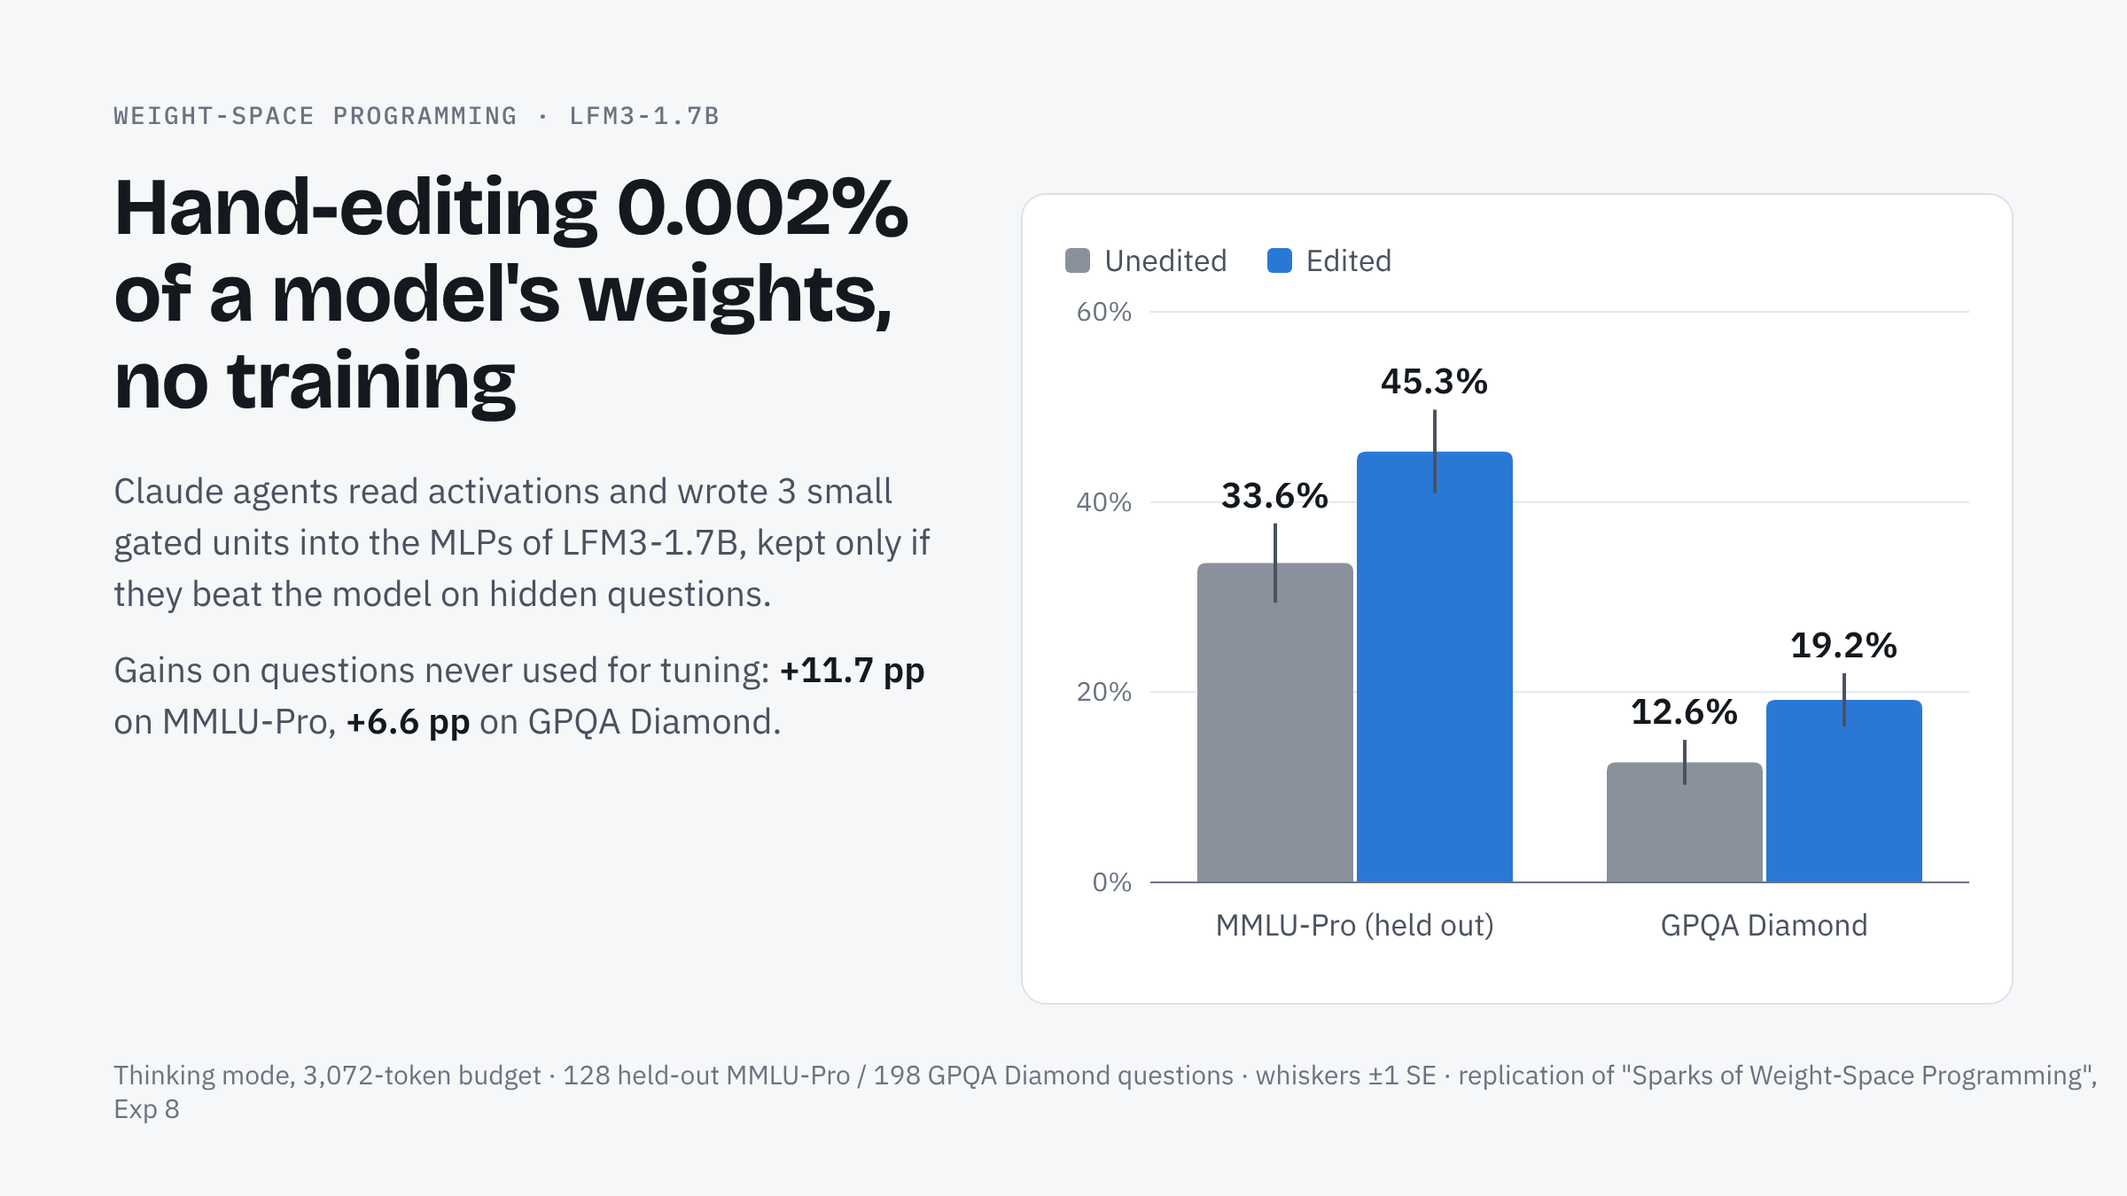
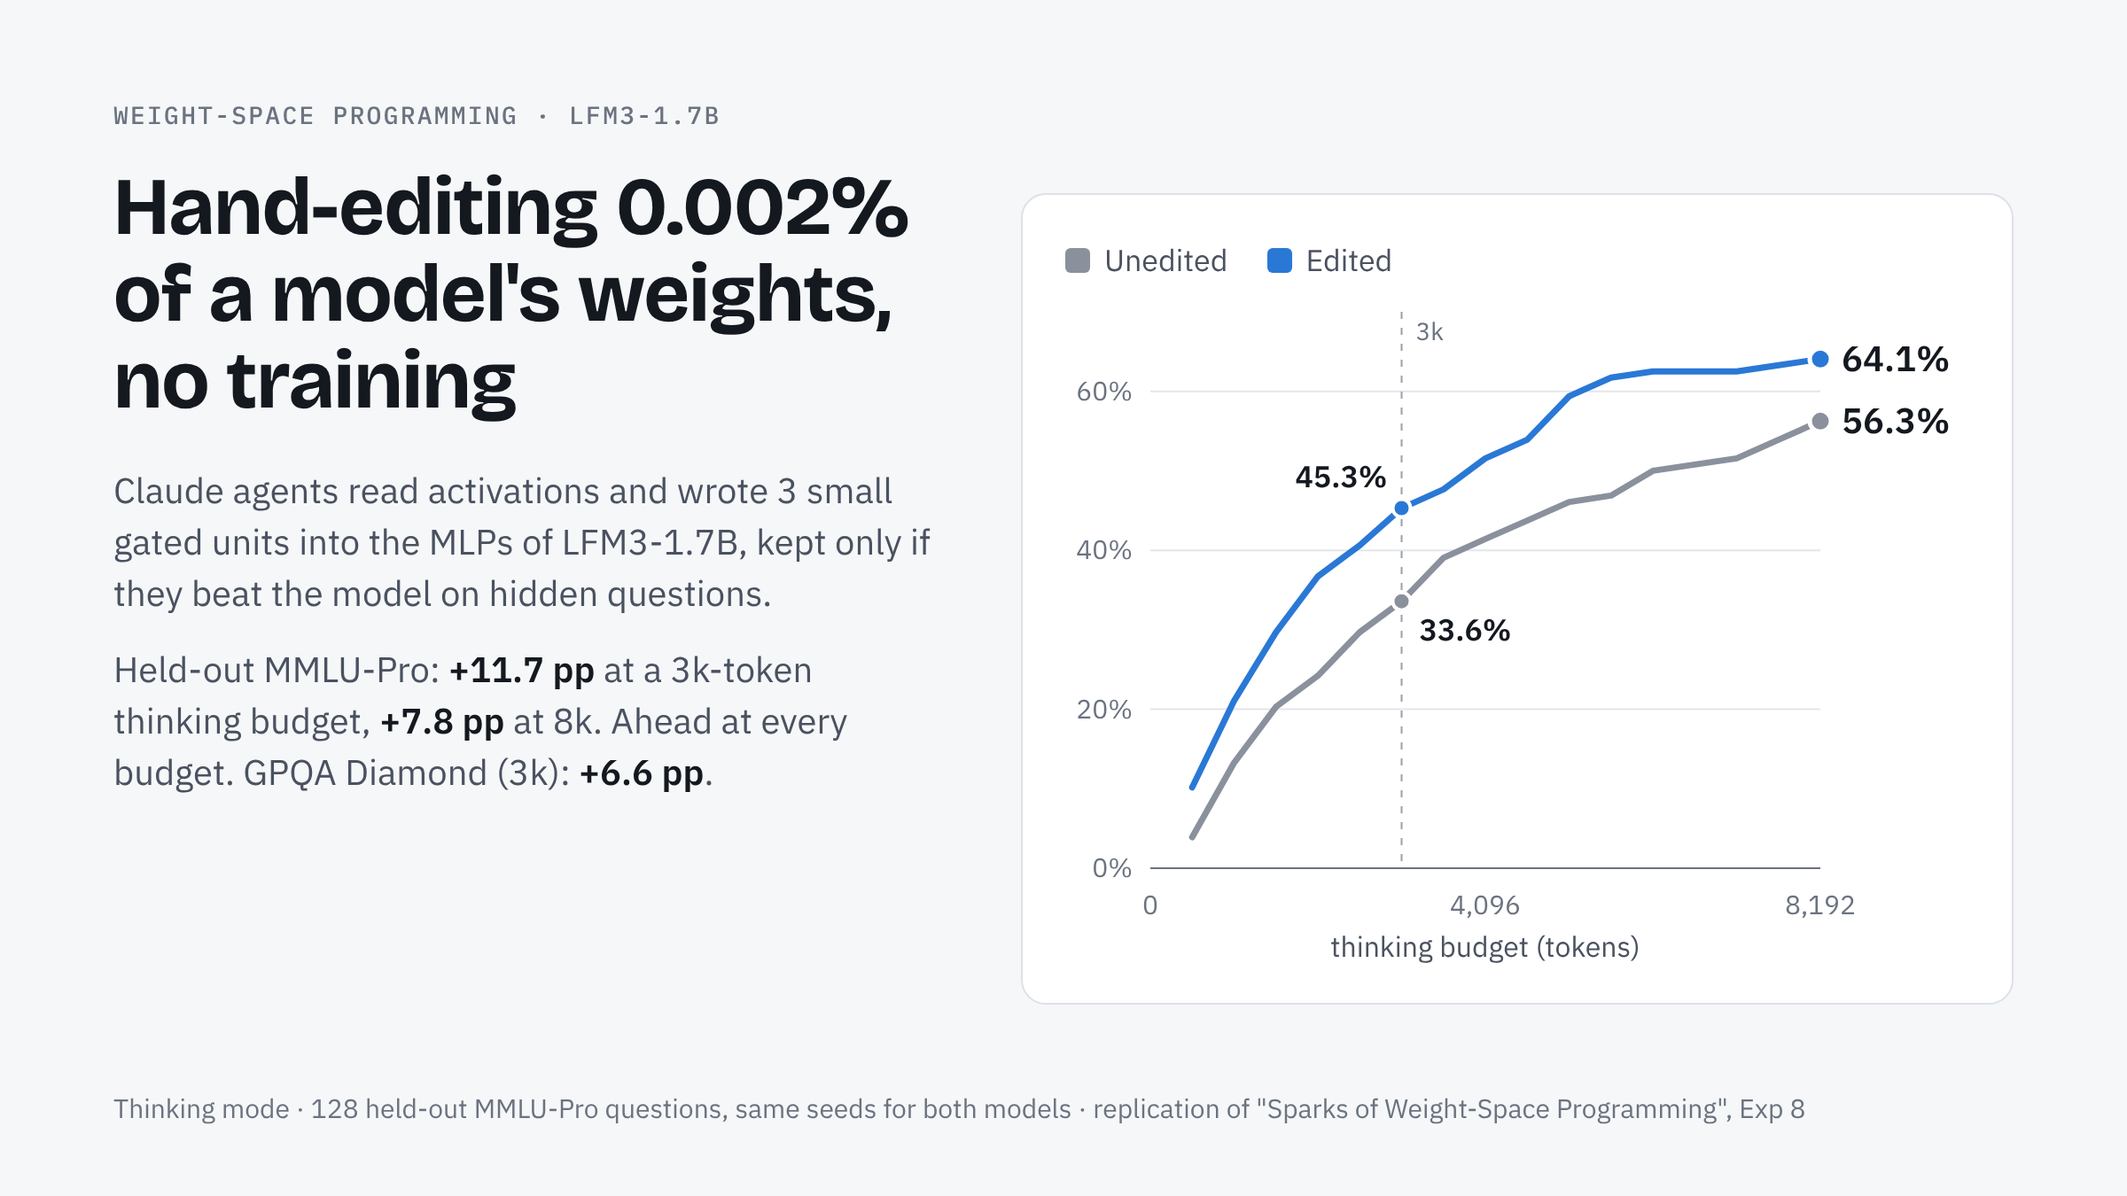
share: summary page, card and tweet updated with 8,192-budget results
Claude-Session: https://claude.ai/code/session_014W2mssL8n5Vujn6gVwdKU8

diff --git a/docs/share/summary.html b/docs/share/summary.html
@@ -33,7 +33,7 @@ ul{margin:0 0 12px;padding-left:20px;display:flex;flex-direction:column;gap:6px}
 section{min-width:0}
 .figure{background:var(--surface);border:1px solid var(--rule);border-radius:10px;padding:20px;display:flex;flex-direction:column;gap:14px}
 .figure figcaption{font-size:13px;color:var(--muted)}
-.stats{display:grid;grid-template-columns:repeat(auto-fit,minmax(200px,1fr));gap:12px}
+.stats{display:grid;grid-template-columns:repeat(auto-fit,minmax(min(100%,300px),1fr));gap:12px}
 .stat{display:flex;flex-direction:column;gap:2px;padding:14px 16px;border:1px solid var(--rule);border-radius:8px;background:var(--surface)}
 .stat .k{font:500 12px/1.4 var(--mono);color:var(--muted);text-transform:uppercase;letter-spacing:.06em}
 .stat .v{font:700 28px/1.15 var(--display);font-variant-numeric:tabular-nums}
@@ -65,13 +65,14 @@ footer{font-size:13px;color:var(--muted);border-top:1px solid var(--rule);paddin
 <header>
   <div class="eyebrow">Replication · Weight-space programming · LFM3-1.7B</div>
   <h1>Claude agents made LFM3-1.7B better by editing 0.002% of its weights by hand</h1>
-  <p class="lede">No gradients, no fine-tuning, no fitting to a loss. AI editors inspected the model's activations, wrote small gated units directly into its MLP weights, and competed in a genetic loop. The surviving edit raises held-out MMLU-Pro accuracy from 33.6% to 45.3% and transfers to GPQA Diamond, a benchmark never used for tuning.</p>
+  <p class="lede">No gradients, no fine-tuning, no fitting to a loss. AI editors inspected the model's activations, wrote small gated units directly into its MLP weights, and competed in a genetic loop. The surviving edit raises held-out MMLU-Pro accuracy from 33.6% to 45.3% at a 3,072-token thinking budget and from 56.3% to 64.1% at 8,192, and transfers to GPQA Diamond, a benchmark never used for tuning.</p>
 </header>
 
 <section>
   <div class="stats">
-    <div class="stat"><span class="k">MMLU-Pro, held out (128)</span><span class="v">45.3% <span>vs 33.6%</span></span><span class="d">+11.7 pp · SE 3.1 · 16 gained, 1 lost</span></div>
-    <div class="stat"><span class="k">GPQA Diamond (198)</span><span class="v">19.2% <span>vs 12.6%</span></span><span class="d">+6.6 pp · SE 2.0 · 15 gained, 2 lost</span></div>
+    <div class="stat"><span class="k">MMLU-Pro held out · 3k budget</span><span class="v">45.3% <span>vs 33.6%</span></span><span class="d">+11.7 pp · SE 3.1 · 16 gained, 1 lost</span></div>
+    <div class="stat"><span class="k">MMLU-Pro held out · 8k budget</span><span class="v">64.1% <span>vs 56.3%</span></span><span class="d">+7.8 pp · SE 2.9 · 12 gained, 2 lost</span></div>
+    <div class="stat"><span class="k">GPQA Diamond · 3k budget</span><span class="v">19.2% <span>vs 12.6%</span></span><span class="d">+6.6 pp · SE 2.0 · 15 gained, 2 lost</span></div>
     <div class="stat"><span class="k">Weights changed</span><span class="v">32,756</span><span class="d" style="color:var(--muted)">9 MLP tensors in layers 20, 22, 23</span></div>
   </div>
 </section>
@@ -79,8 +80,8 @@ footer{font-size:13px;color:var(--muted);border-top:1px solid var(--rule);paddin
 <section>
   <figure class="figure" style="margin:0">
     <div class="legend"><span><i style="background:var(--base)"></i>Unedited LFM3-1.7B</span><span><i style="background:var(--champ)"></i>Edited (current champion)</span></div>
-    <svg class="chart" id="chart" viewBox="0 0 640 300" role="img" aria-label="Accuracy of the unedited and edited model on held-out MMLU-Pro and GPQA Diamond"></svg>
-    <figcaption>Thinking mode, 3,072-token cap, same seeds and sampling for both models. Whiskers are ±1 standard error of each accuracy. Paired differences are in the boxes above.</figcaption>
+    <svg class="chart" id="chart" viewBox="0 0 640 300" role="img" aria-label="Accuracy of the unedited and edited model on held-out MMLU-Pro at 3,072 and 8,192 thinking tokens, and on GPQA Diamond at 3,072"></svg>
+    <figcaption>Thinking mode, same seeds and sampling for both models; the budget caps thinking plus answer. Whiskers are ±1 standard error of each accuracy. Paired differences are in the boxes above.</figcaption>
   </figure>
 </section>
 
@@ -150,13 +151,25 @@ flowchart LR
     <li><b>The mechanisms are sharp.</b> The situations the units detect separate from all other tokens with AUC 0.96–0.99 in a single residual-stream direction, and in read passes the edited units push the targeted token from near-zero to near-certain probability at those points.</li>
     <li><b>No edit is silent.</b> Repurposing any neuron removes its old output, and under sampling that tiny change sends most traces down a different path early on, typically within the first fifth of the text. Each edit therefore re-rolls many answers, which adds a noise floor of about ±2.5 pp at 128 questions.</li>
     <li><b>Small mechanisms add up.</b> Two edits that each failed alone passed when stacked, because the re-roll cost is paid once.</li>
+    <li><b>Report the budget.</b> At a tight budget an edit's gain mixes efficiency and correctness. The budget alone moved the unedited model by 22.7 points, more than any edit did.</li>
     <li><b>Measure on fresh questions.</b> Gains on questions the editors had studied overstated the true effect by 2–3 standard errors. A second untouched question bank predicted selection results to within one standard error.</li>
   </ul>
 </section>
 
-<section class="note">
-  <p><b>Caveat on the token budget.</b> All results above use a 3,072-token cap on thinking plus answer, chosen so that runs fit on a CPU. The paper used 32,768 tokens. Much of the gain comes from finishing within the budget: the cut share fell from 56% to 46% on MMLU-Pro and from 85% to 76% on GPQA. With a longer budget, some answers the base model loses here would finish, so the gap is likely smaller.</p>
-  <p><b>In progress:</b> both models are being re-run on the same 128 held-out questions with an 8,192-token cap. This page will be updated with the result.</p>
+<section>
+  <h2>Does it hold with a bigger thinking budget?</h2>
+  <p>Editing and selection ran with a 3,072-token cap so that runs fit on a CPU, and much of the early gain came from finishing in time. To check, both models were re-run on the same 128 held-out questions with an 8,192-token cap. With fixed seeds, a trace does not depend on the cap until it is cut (all 125 traces that finished under 3,072 came out identical), so the 8,192 runs give the accuracy at every smaller budget.</p>
+  <figure class="figure" style="margin:0">
+    <div class="legend"><span><i style="background:var(--base)"></i>Unedited</span><span><i style="background:var(--champ)"></i>Edited</span></div>
+    <svg class="chart" id="curve" viewBox="0 0 640 300" role="img" aria-label="Held-out MMLU-Pro accuracy against thinking budget from 512 to 8,192 tokens; the edited model is ahead at every budget"></svg>
+    <figcaption>Held-out MMLU-Pro (128), accuracy if the thinking budget were the value on the x-axis, from the 8,192-token runs. Hover for values.</figcaption>
+  </figure>
+  <ul style="margin-top:14px">
+    <li><b>The edited model is ahead at every budget.</b> The gap is about 12 points where the budget binds (2–3k tokens) and 7.8 points at 8,192 (SE 2.9, 12 gained, 2 lost).</li>
+    <li><b>It reaches the unedited model's 8,192-token accuracy at about 4,800 tokens</b>, and uses 18% fewer tokens on average.</li>
+    <li><b>It is not only finishing sooner.</b> On the 98 questions both models finish at 8,192, the edited model is right on 78 and the unedited on 71.</li>
+  </ul>
+  <div class="note"><p><b>Still open.</b> The paper allowed 32,768 thinking tokens; this check stops at 8,192, where 21% of unedited and 16% of edited answers are still cut. GPQA was only measured at 3,072.</p></div>
 </section>
 
 <section>
@@ -176,15 +189,16 @@ flowchart LR
 <script>
 (function(){
   const data=[
-    {set:"MMLU-Pro (held out, 128)",base:[33.59,4.17],champ:[45.31,4.40]},
-    {set:"GPQA Diamond (198)",base:[12.63,2.36],champ:[19.19,2.80]}
+    {set:"MMLU-Pro · 3k",base:[33.59,4.17],champ:[45.31,4.40]},
+    {set:"MMLU-Pro · 8k",base:[56.25,4.38],champ:[64.06,4.24]},
+    {set:"GPQA · 3k",base:[12.63,2.36],champ:[19.19,2.80]}
   ];
   const svg=document.getElementById("chart"), NS="http://www.w3.org/2000/svg";
-  const W=640,H=300,L=44,R=12,T=16,B=44, max=60;
+  const W=640,H=300,L=44,R=12,T=16,B=44, max=80;
   const y=v=>T+(H-T-B)*(1-v/max);
   const el=(n,a,p)=>{const e=document.createElementNS(NS,n);for(const k in a)e.setAttribute(k,a[k]);(p||svg).appendChild(e);return e};
   for(let v=0;v<=max;v+=20){el("line",{x1:L,x2:W-R,y1:y(v),y2:y(v),class:"grid"});const t=el("text",{x:L-8,y:y(v)+4,"text-anchor":"end","font-size":12});t.textContent=v+"%";}
-  const gw=(W-L-R)/data.length, bw=Math.min(84,gw*0.28), gap=2;
+  const gw=(W-L-R)/data.length, bw=Math.min(64,gw*0.32), gap=2;
   const tip=document.getElementById("tip");
   data.forEach((d,i)=>{
     const cx=L+gw*i+gw/2;
@@ -200,5 +214,37 @@ flowchart LR
     const t=el("text",{x:cx,y:H-B+22,"text-anchor":"middle","font-size":13}); t.textContent=d.set;
   });
   el("line",{x1:L,x2:W-R,y1:y(0),y2:y(0),stroke:"var(--muted)","stroke-width":1});
+})();
+(function(){
+  const T=[512,1024,1536,2048,2560,3072,3584,4096,4608,5120,5632,6144,6656,7168,7680,8192];
+  const S=[{name:"Unedited",c:"var(--base)",v:[3.91,13.28,20.31,24.22,29.69,33.59,39.06,41.41,43.75,46.09,46.88,50,50.78,51.56,53.91,56.25]},
+           {name:"Edited",c:"var(--champ)",v:[10.16,21.09,29.69,36.72,40.62,45.31,47.66,51.56,53.91,59.38,61.72,62.5,62.5,62.5,63.28,64.06]}];
+  const svg=document.getElementById("curve"), NS="http://www.w3.org/2000/svg", tip=document.getElementById("tip");
+  const W=640,H=300,L=44,R=64,Tp=16,B=40, ymax=70;
+  const x=t=>L+(W-L-R)*t/8192, y=v=>Tp+(H-Tp-B)*(1-v/ymax);
+  const el=(n,a)=>{const e=document.createElementNS(NS,n);for(const k in a)e.setAttribute(k,a[k]);svg.appendChild(e);return e};
+  for(let v=0;v<=ymax;v+=10){if(v%20&&v!==70)continue;el("line",{x1:L,x2:W-R,y1:y(v),y2:y(v),class:"grid"});const t=el("text",{x:L-8,y:y(v)+4,"text-anchor":"end","font-size":12});t.textContent=v+"%";}
+  [0,2048,4096,6144,8192].forEach(t=>{const e=el("text",{x:x(t),y:H-B+20,"text-anchor":"middle","font-size":12});e.textContent=t?t.toLocaleString("en-US"):"0";});
+  const ax=el("text",{x:(L+W-R)/2,y:H-4,"text-anchor":"middle","font-size":12});ax.textContent="thinking budget (tokens)";
+  el("line",{x1:x(3072),x2:x(3072),y1:Tp,y2:y(0),stroke:"var(--muted)","stroke-width":1,"stroke-dasharray":"3 4"});
+  const sl=el("text",{x:x(3072)+6,y:Tp+12,"font-size":12});sl.textContent="selection budget";
+  el("line",{x1:L,x2:W-R,y1:y(0),y2:y(0),stroke:"var(--muted)","stroke-width":1});
+  S.forEach(s=>{
+    el("path",{d:s.v.map((v,i)=>(i?"L":"M")+x(T[i]).toFixed(1)+","+y(v).toFixed(1)).join(" "),fill:"none",stroke:s.c,"stroke-width":2,"stroke-linejoin":"round","stroke-linecap":"round"});
+    const last=s.v.length-1; el("circle",{cx:x(T[last]),cy:y(s.v[last]),r:4,fill:s.c,stroke:"var(--surface)","stroke-width":2});
+    const lb=el("text",{x:x(8192)+8,y:y(s.v[last])+4,"font-size":13,class:"val"});lb.textContent=s.v[last].toFixed(1)+"%";
+  });
+  const cross=el("line",{x1:0,x2:0,y1:Tp,y2:y(0),stroke:"var(--fg2)","stroke-width":1,opacity:0});
+  const dots=S.map(s=>el("circle",{r:4,fill:s.c,stroke:"var(--surface)","stroke-width":2,opacity:0}));
+  const hit=el("rect",{x:L,y:Tp,width:W-L-R,height:y(0)-Tp,fill:"transparent"});
+  hit.addEventListener("pointermove",e=>{
+    const r=svg.getBoundingClientRect(), px=(e.clientX-r.left)*W/r.width;
+    let i=0,best=1e9;T.forEach((t,j)=>{const d=Math.abs(x(t)-px);if(d<best){best=d;i=j}});
+    cross.setAttribute("x1",x(T[i]));cross.setAttribute("x2",x(T[i]));cross.setAttribute("opacity",1);
+    dots.forEach((d,k)=>{d.setAttribute("cx",x(T[i]));d.setAttribute("cy",y(S[k].v[i]));d.setAttribute("opacity",1)});
+    tip.textContent=`${T[i].toLocaleString("en-US")} tokens · Edited ${S[1].v[i].toFixed(1)}% · Unedited ${S[0].v[i].toFixed(1)}%`;
+    tip.style.opacity=1;tip.style.left=Math.min(e.clientX+12,innerWidth-300)+"px";tip.style.top=(e.clientY+12)+"px";
+  });
+  hit.addEventListener("pointerleave",()=>{tip.style.opacity=0;cross.setAttribute("opacity",0);dots.forEach(d=>d.setAttribute("opacity",0))});
 })();
 </script>

diff --git a/docs/share/card.html b/docs/share/card.html
@@ -16,23 +16,31 @@ svg text{font-family:"IBM Plex Sans",sans-serif}
   <div class="eb">Weight-space programming · LFM3-1.7B</div>
   <h1>Hand-editing 0.002% of a model's weights, no training</h1>
   <p>Claude agents read activations and wrote 3 small gated units into the MLPs of LFM3-1.7B, kept only if they beat the model on hidden questions.</p>
-  <p>Gains on questions never used for tuning: <b style="color:#14181f">+11.7 pp</b> on MMLU-Pro, <b style="color:#14181f">+6.6 pp</b> on GPQA Diamond.</p>
+  <p>Held-out MMLU-Pro: <b style="color:#14181f">+11.7 pp</b> at a 3k-token thinking budget, <b style="color:#14181f">+7.8 pp</b> at 8k. Ahead at every budget. GPQA Diamond (3k): <b style="color:#14181f">+6.6 pp</b>.</p>
 </div>
 <div class="panel">
   <div class="legend"><span><i style="background:#8a919c"></i>Unedited</span><span><i style="background:#2a78d6"></i>Edited</span></div>
   <svg id="c" width="510" height="380" viewBox="0 0 510 380"></svg>
 </div>
-<div class="foot">Thinking mode, 3,072-token budget · 128 held-out MMLU-Pro / 198 GPQA Diamond questions · whiskers ±1 SE · replication of "Sparks of Weight-Space Programming", Exp 8</div>
+<div class="foot">Thinking mode · 128 held-out MMLU-Pro questions, same seeds for both models · replication of "Sparks of Weight-Space Programming", Exp 8</div>
 <script>
-const d=[["MMLU-Pro (held out)",33.59,4.17,45.31,4.40],["GPQA Diamond",12.63,2.36,19.19,2.80]];
-const s=document.getElementById("c"),N="http://www.w3.org/2000/svg",L=48,B=48,T=10,H=380,W=510,max=60,y=v=>T+(H-T-B)*(1-v/max);
-const e=(n,a)=>{const x=document.createElementNS(N,n);for(const k in a)x.setAttribute(k,a[k]);s.appendChild(x);return x};
-for(let v=0;v<=max;v+=20){e("line",{x1:L,x2:W,y1:y(v),y2:y(v),stroke:"#e3e6eb"});e("text",{x:L-10,y:y(v)+5,"text-anchor":"end","font-size":15,fill:"#6b7380"}).textContent=v+"%"}
-const gw=(W-L)/2,bw=88;
-d.forEach(([n,b,bs,c,cs],i)=>{const cx=L+gw*i+gw/2;[[b,bs,"#8a919c"],[c,cs,"#2a78d6"]].forEach(([v,se,col],j)=>{const x=j?cx+1:cx-bw-1,t=y(v),r=5;
-e("path",{d:`M${x},${y(0)}V${t+r}Q${x},${t} ${x+r},${t}H${x+bw-r}Q${x+bw},${t} ${x+bw},${t+r}V${y(0)}Z`,fill:col});
-e("line",{x1:x+bw/2,x2:x+bw/2,y1:y(v-se),y2:y(v+se),stroke:"#4a5260","stroke-width":2});
-e("text",{x:x+bw/2,y:y(v+se)-9,"text-anchor":"middle","font-size":20,"font-weight":600,fill:"#14181f"}).textContent=v.toFixed(1)+"%"});
-e("text",{x:cx,y:H-B+30,"text-anchor":"middle","font-size":17,fill:"#4a5260"}).textContent=n});
-e("line",{x1:L,x2:W,y1:y(0),y2:y(0),stroke:"#6b7380"});
+const T=[512,1024,1536,2048,2560,3072,3584,4096,4608,5120,5632,6144,6656,7168,7680,8192];
+const S=[["#8a919c",[3.91,13.28,20.31,24.22,29.69,33.59,39.06,41.41,43.75,46.09,46.88,50,50.78,51.56,53.91,56.25]],
+         ["#2a78d6",[10.16,21.09,29.69,36.72,40.62,45.31,47.66,51.56,53.91,59.38,61.72,62.5,62.5,62.5,63.28,64.06]]];
+const s=document.getElementById("c"),N="http://www.w3.org/2000/svg",L=48,R=84,B=56,Tp=10,H=380,W=510,max=70;
+const x=t=>L+(W-L-R)*t/8192, y=v=>Tp+(H-Tp-B)*(1-v/max);
+const e=(n,a)=>{const z=document.createElementNS(N,n);for(const k in a)z.setAttribute(k,a[k]);s.appendChild(z);return z};
+for(const v of [0,20,40,60]){e("line",{x1:L,x2:W-R,y1:y(v),y2:y(v),stroke:"#e3e6eb"});e("text",{x:L-10,y:y(v)+5,"text-anchor":"end","font-size":15,fill:"#6b7380"}).textContent=v+"%"}
+for(const t of [0,4096,8192]) e("text",{x:x(t),y:H-B+26,"text-anchor":"middle","font-size":15,fill:"#6b7380"}).textContent=t?t.toLocaleString("en-US"):"0";
+e("text",{x:(L+W-R)/2,y:H-6,"text-anchor":"middle","font-size":16,fill:"#4a5260"}).textContent="thinking budget (tokens)";
+e("line",{x1:x(3072),x2:x(3072),y1:Tp,y2:y(0),stroke:"#9aa1ac","stroke-dasharray":"4 5"});
+e("text",{x:x(3072)+8,y:Tp+16,"font-size":14,fill:"#6b7380"}).textContent="3k";
+e("line",{x1:L,x2:W-R,y1:y(0),y2:y(0),stroke:"#6b7380"});
+S.forEach(([c,v])=>{e("path",{d:v.map((q,i)=>(i?"L":"M")+x(T[i]).toFixed(1)+","+y(q).toFixed(1)).join(" "),fill:"none",stroke:c,"stroke-width":3.5,"stroke-linejoin":"round","stroke-linecap":"round"});
+ e("circle",{cx:x(8192),cy:y(v[15]),r:6,fill:c,stroke:"#fff","stroke-width":2.5});
+ e("text",{x:x(8192)+12,y:y(v[15])+7,"font-size":20,"font-weight":600,fill:"#14181f"}).textContent=v[15].toFixed(1)+"%";
+ e("circle",{cx:x(3072),cy:y(v[5]),r:5,fill:c,stroke:"#fff","stroke-width":2});
+});
+e("text",{x:x(3072)-8,y:y(45.31)-12,"text-anchor":"end","font-size":17,"font-weight":600,fill:"#14181f"}).textContent="45.3%";
+e("text",{x:x(3072)+10,y:y(33.59)+22,"font-size":17,"font-weight":600,fill:"#14181f"}).textContent="33.6%";
 </script>

diff --git a/docs/share/tweet.md b/docs/share/tweet.md
@@ -1,13 +1,16 @@
 # Tweet / thread draft
 
+Numbers are held-out MMLU-Pro (128 questions) unless stated; every number names its thinking budget (D61).
+
 ## Single post (fits with a link)
 
 Can AI agents make a model smarter by editing its weights by hand, no training?
 
-Replicating Exp 8 of "Sparks of Weight-Space Programming" on a CPU, Claude agents edited 0.002% of LFM3-1.7B.
+Replicating Exp 8 of "Sparks of Weight-Space Programming", Claude agents edited 0.002% of LFM3-1.7B.
 
-Held-out MMLU-Pro: 33.6% → 45.3%
-GPQA Diamond: 12.6% → 19.2%
+Held-out MMLU-Pro:
+3k thinking tokens: 33.6% → 45.3%
+8k: 56.3% → 64.1%
 
 <link>
 
@@ -17,10 +20,9 @@ Paste each block as one post. The last post takes the link to the write-up (coun
 
 Can an AI make a model smarter by editing its weights directly, with no training?
 
-We replicated Exp 8 of "Sparks of Weight-Space Programming" on a 4-core CPU. Claude agents edited 0.002% of LFM3-1.7B's weights:
+We replicated Exp 8 of "Sparks of Weight-Space Programming" on a 4-core CPU. Claude agents edited 0.002% of LFM3-1.7B's weights.
 
-MMLU-Pro (held out): 33.6% → 45.3%
-GPQA Diamond: 12.6% → 19.2%
+Held-out MMLU-Pro: 33.6% → 45.3% (3k-token thinking budget)
 
 ---
 
@@ -34,6 +36,8 @@ The 3 kept units close the thinking at a stated answer, force a commit between t
 
 ---
 
-Caveat: all numbers are at a 3,072-token thinking budget (the paper used 32k), so much of the gain is finishing in time. We're re-running base vs edited at 8,192 tokens now.
+Is it just finishing faster? We re-ran both at 8k tokens: 56.3% → 64.1%. The edited model leads at every budget from 512 to 8k and matches the original's 8k score at ~4.8k.
 
-Full write-up, data and logs: <link>
+GPQA Diamond (3k, never used for tuning): 12.6% → 19.2%.
+
+Write-up and logs: <link>
